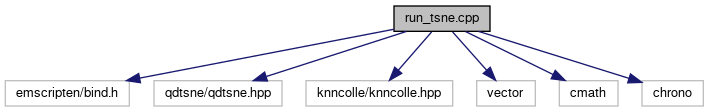
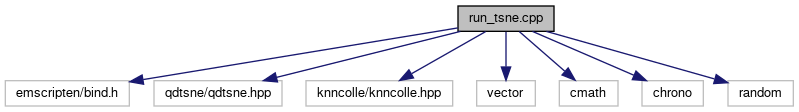
Deploying to gh-pages from @ jkanche/scran.js@f8f35ec62e79e59795c96ca1b4833d127f7a31c4 🚀

diff --git a/docs/wasm/run__tsne_8cpp.html b/docs/wasm/run__tsne_8cpp.html
@@ -76,18 +76,20 @@ $(function() {
 <code>#include &lt;vector&gt;</code><br />
 <code>#include &lt;cmath&gt;</code><br />
 <code>#include &lt;chrono&gt;</code><br />
+<code>#include &lt;random&gt;</code><br />
 </div><div class="textblock"><div class="dynheader">
 Include dependency graph for run_tsne.cpp:</div>
 <div class="dyncontent">
 <div class="center"><img src="run__tsne_8cpp__incl.png" border="0" usemap="#arun__tsne_8cpp" alt=""/></div>
 <map name="arun__tsne_8cpp" id="arun__tsne_8cpp">
-<area shape="rect" title=" " alt="" coords="394,5,490,32"/>
+<area shape="rect" title=" " alt="" coords="458,5,554,32"/>
 <area shape="rect" title=" " alt="" coords="5,80,129,107"/>
 <area shape="rect" title=" " alt="" coords="154,80,282,107"/>
 <area shape="rect" title=" " alt="" coords="306,80,453,107"/>
 <area shape="rect" title=" " alt="" coords="477,80,535,107"/>
 <area shape="rect" title=" " alt="" coords="559,80,618,107"/>
 <area shape="rect" title=" " alt="" coords="642,80,703,107"/>
+<area shape="rect" title=" " alt="" coords="728,80,793,107"/>
 </map>
 </div>
 </div><table class="memberdecls">
